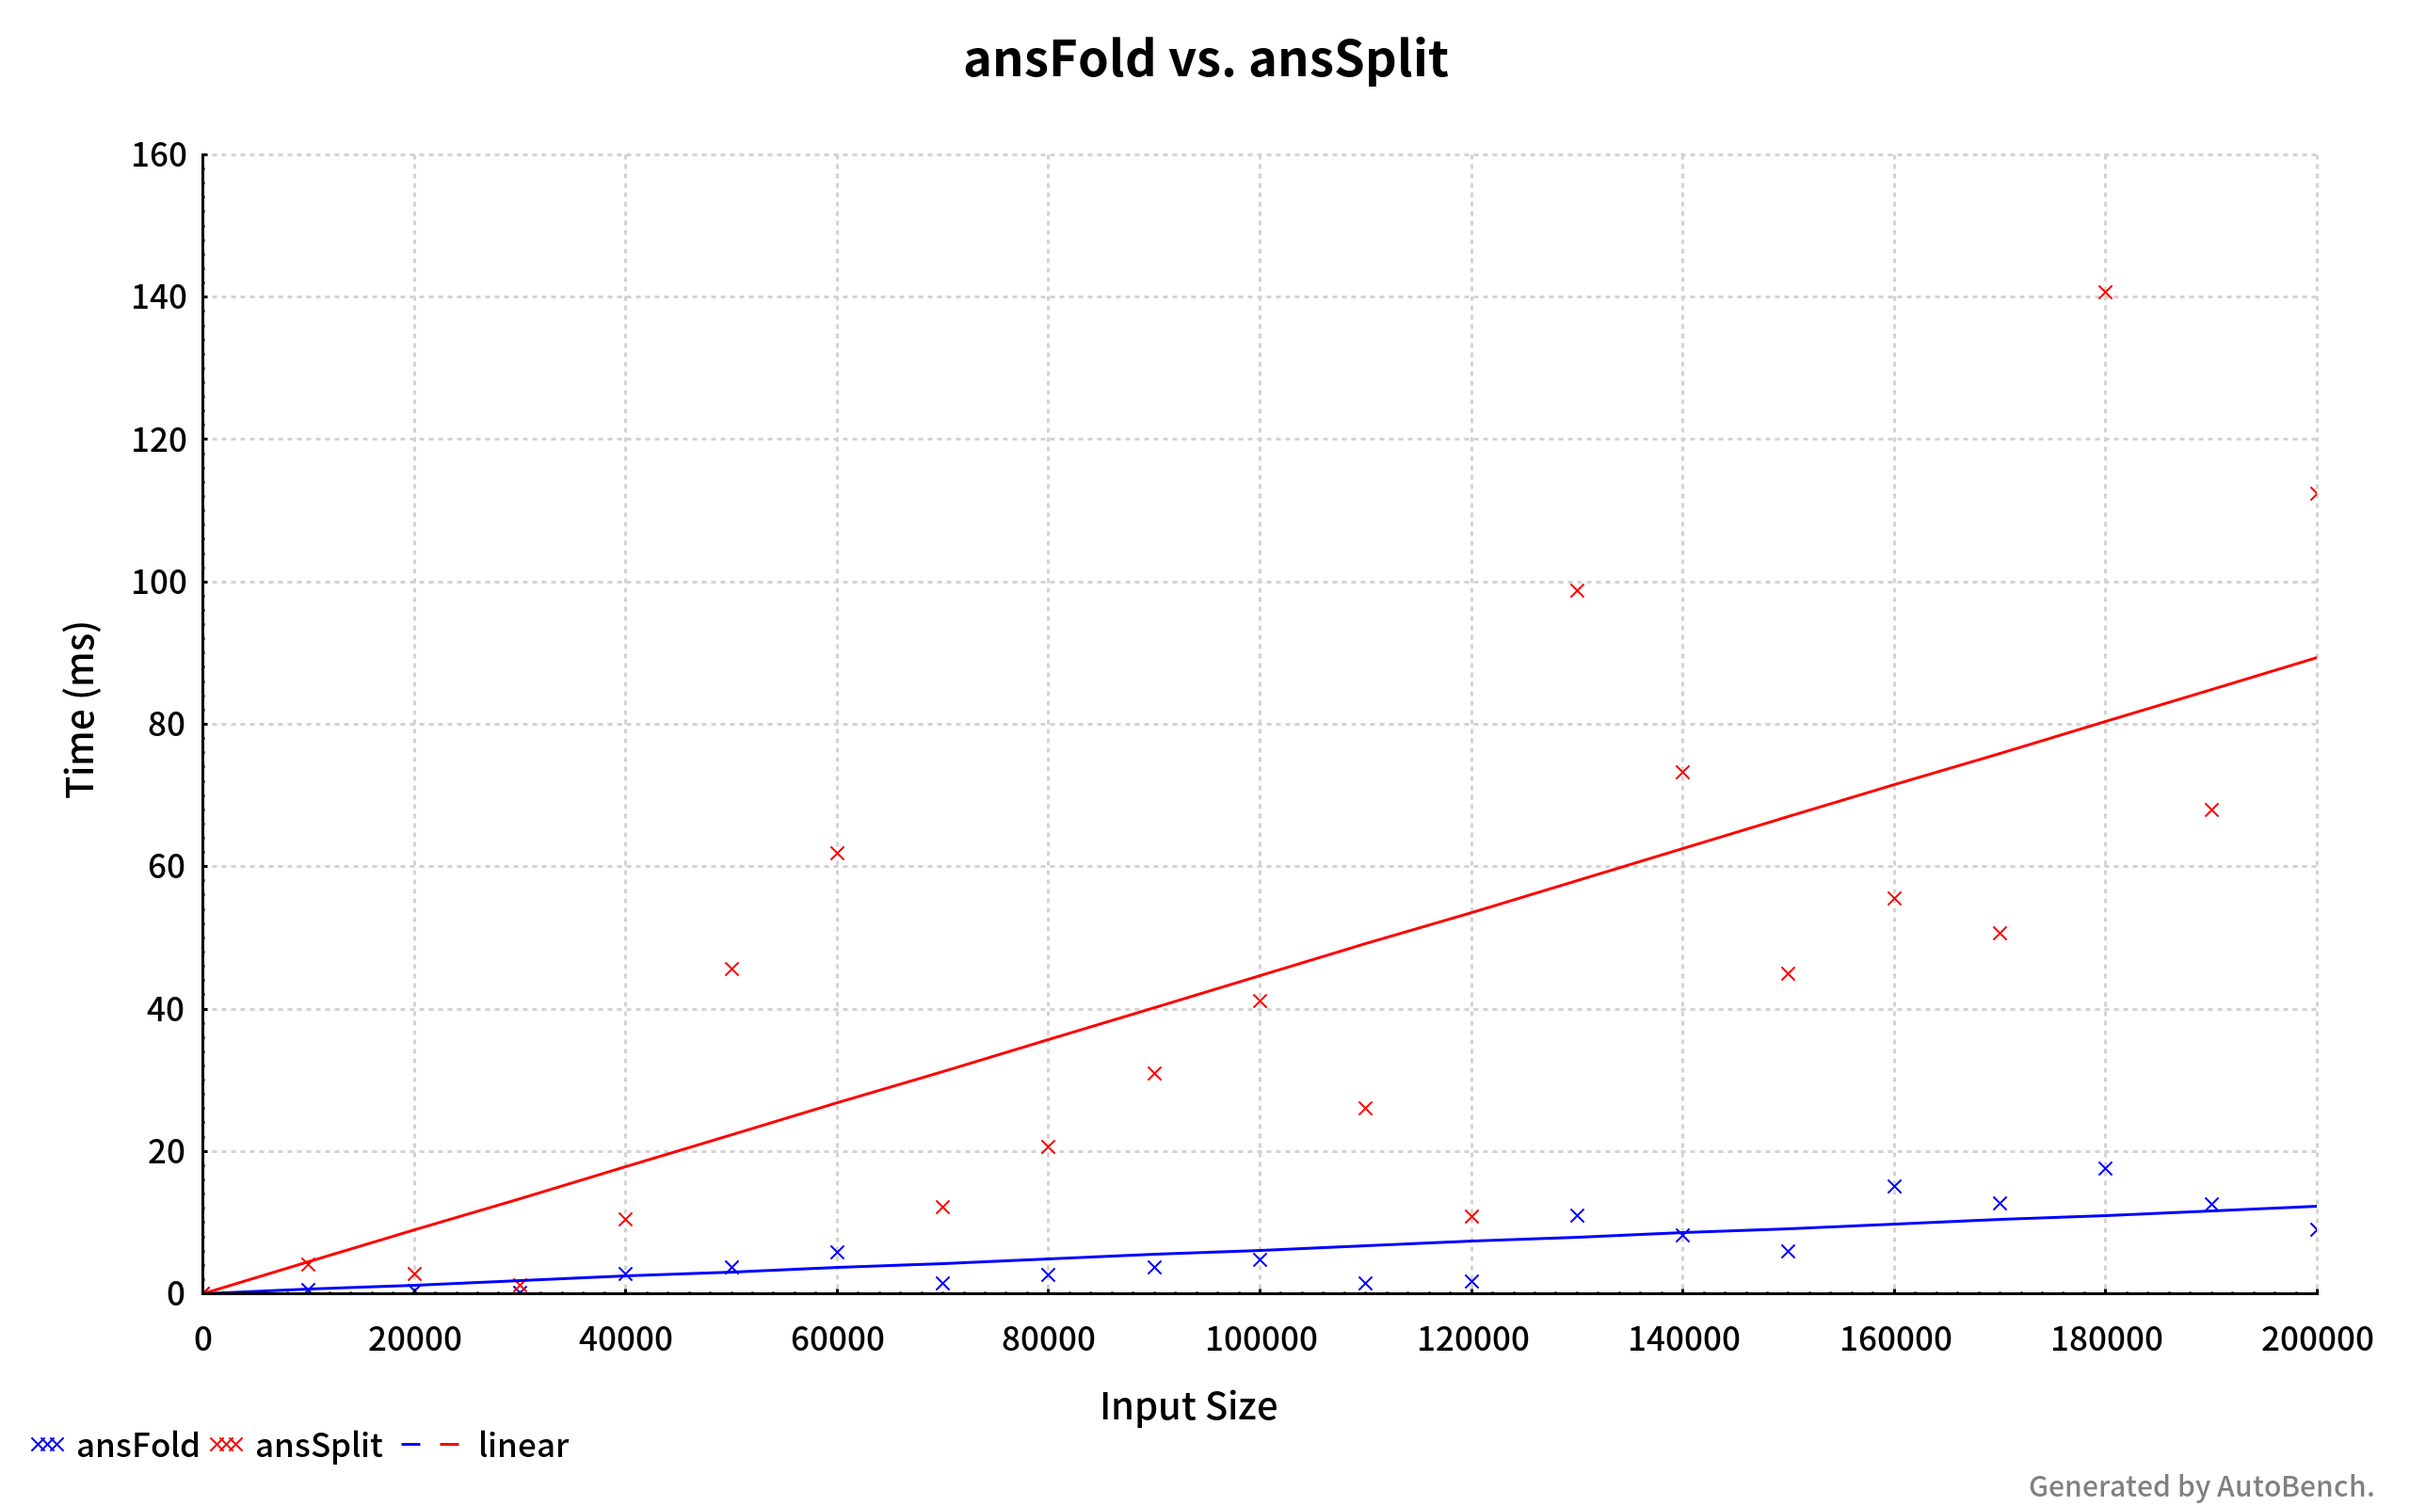
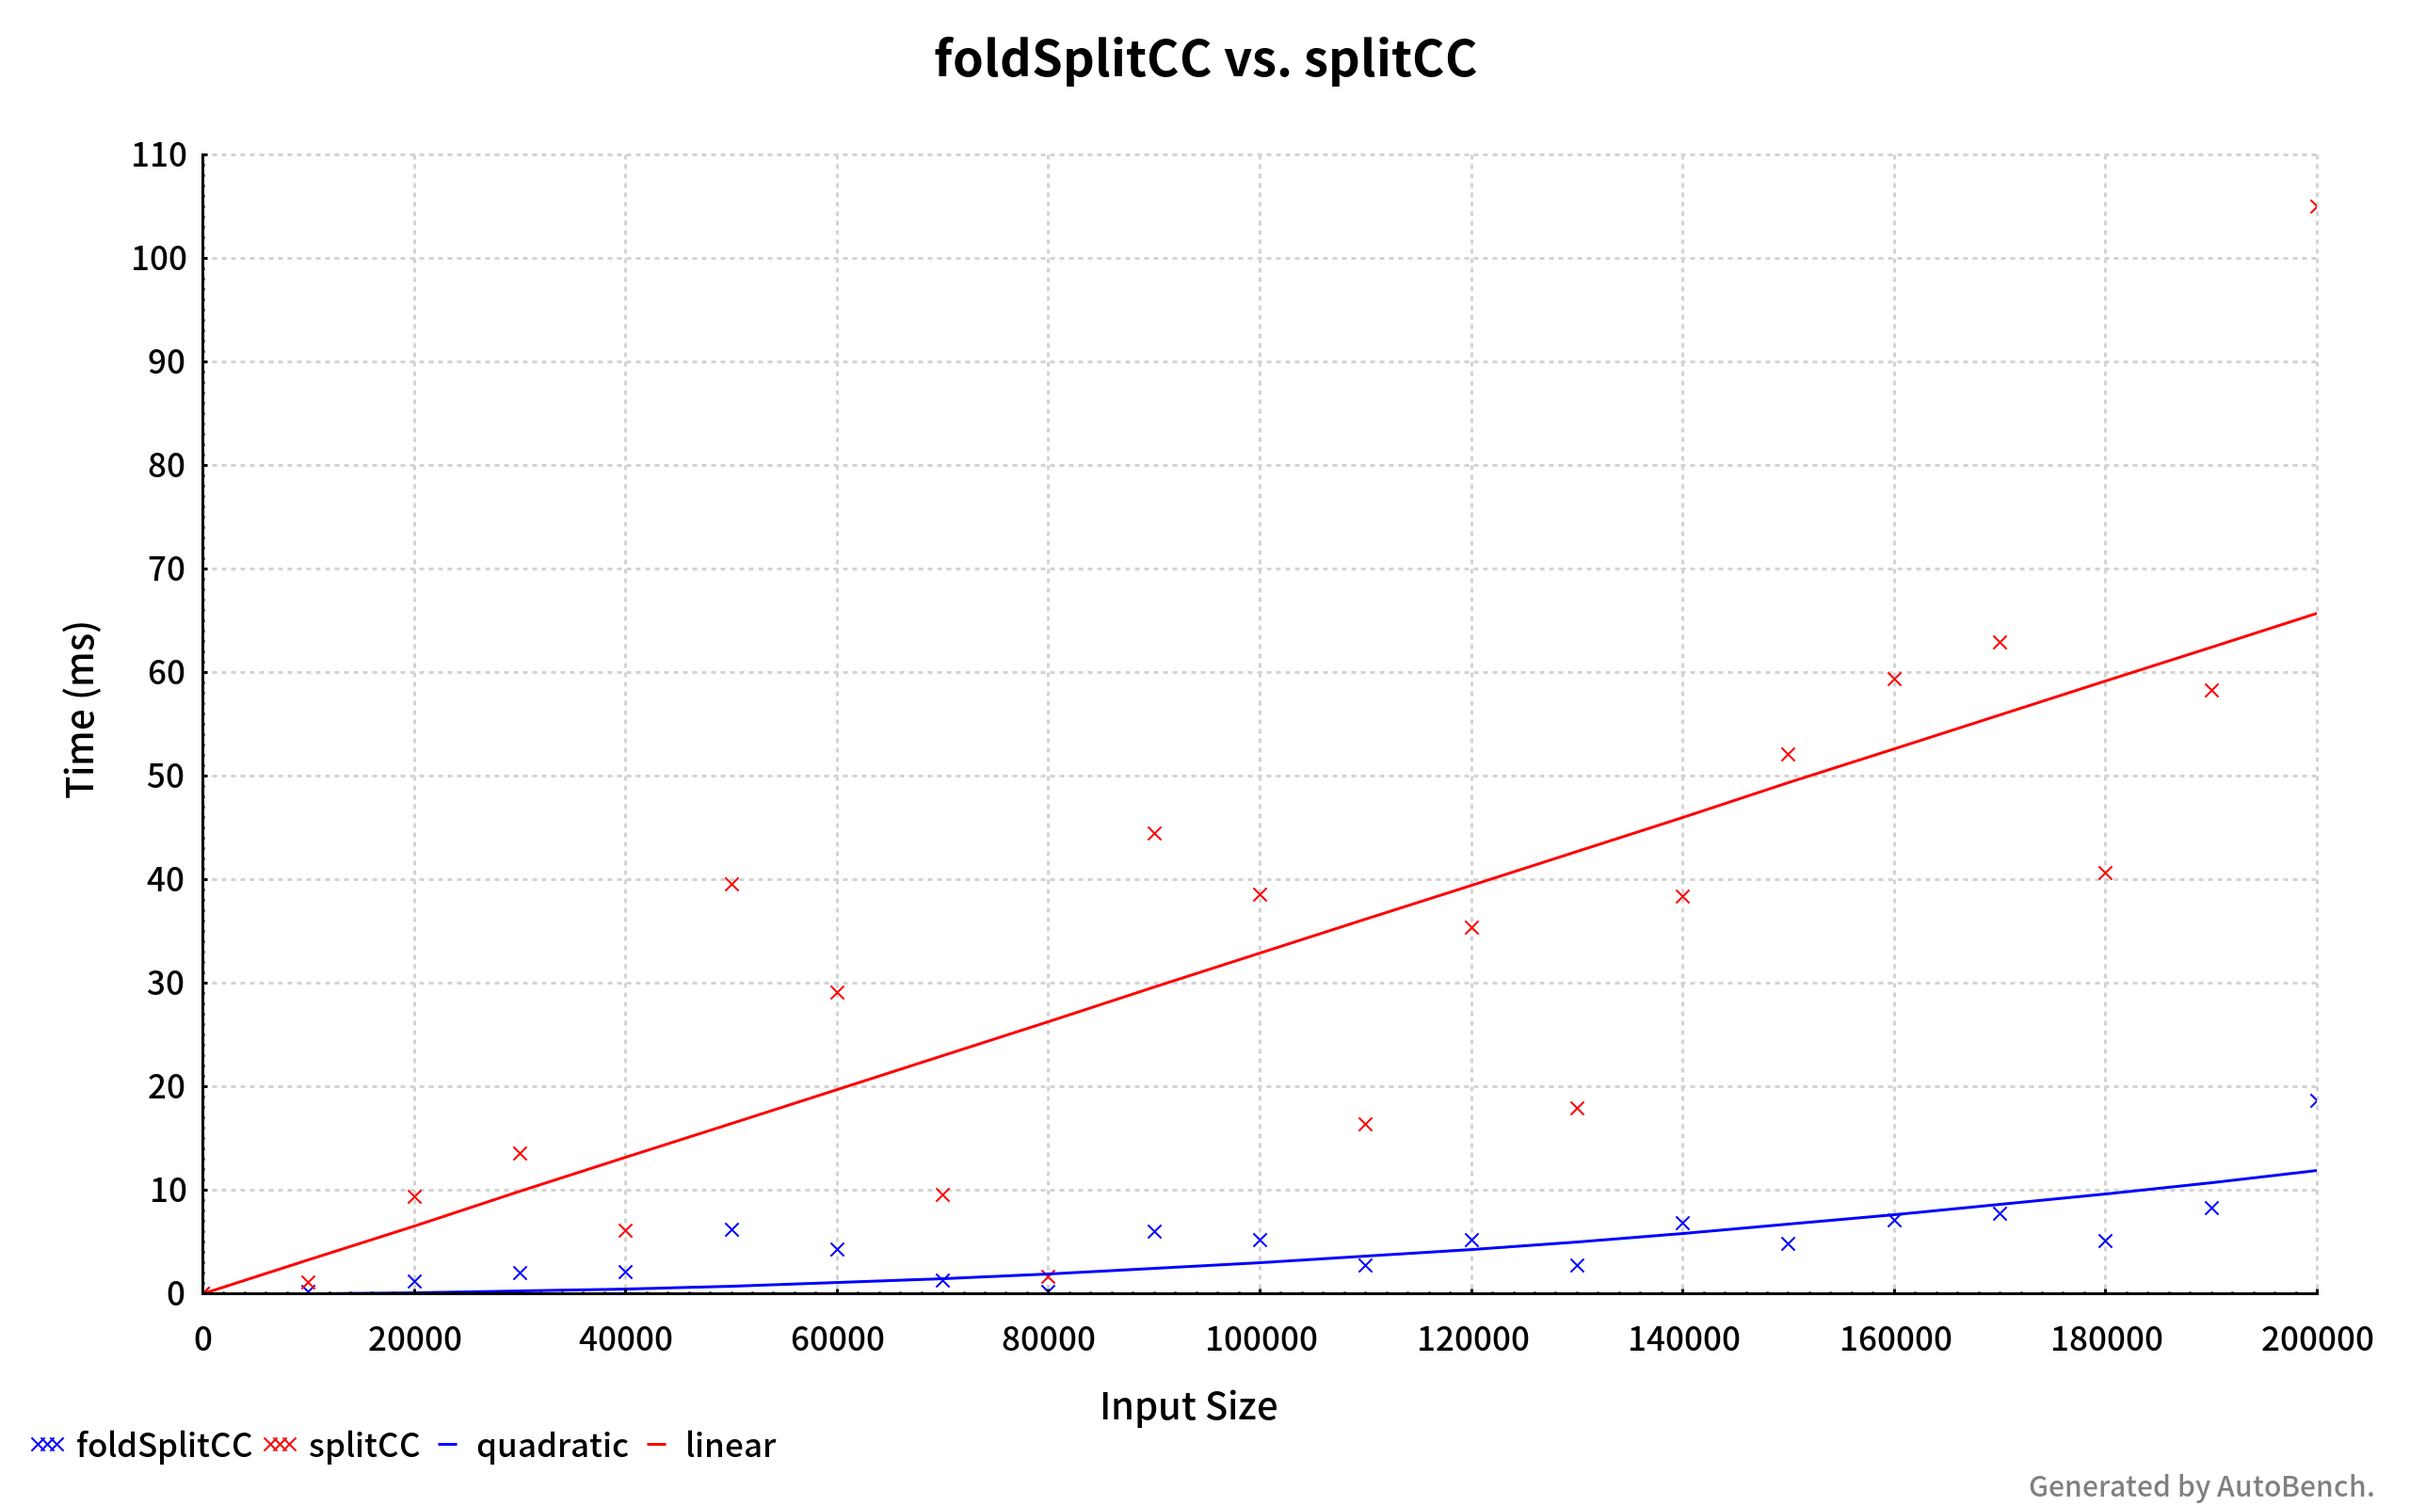
rename functions.

diff --git a/posts/2018/11-16-split-camel-case.md b/posts/2018/11-16-split-camel-case.md
@@ -19,14 +19,14 @@ Twitter で `CamelCase` の文字列を `Camel Case` にするという話を見
 ```hs
 import Data.List.Split (split, startsWithOneOf)
 
-ansSplit :: String -> String
-ansSplit = unwords . split (startsWithOneOf ['A'..'Z'])
+splitCC :: String -> String
+splitCC  = unwords . split (startsWithOneOf ['A'..'Z'])
 ```
 
 実行結果
 
 ```shell
-ghci> ansSplit "CamelCase"
+ghci> splitCC "CamelCase"
 "Camel Case"
 ```
 
@@ -41,8 +41,8 @@ ghci> ansSplit "CamelCase"
 ```hs
 import Data.Char (isUpper, isSpace)
 
-ansFold :: String -> String
-ansFold = fmt . foldr go []
+foldSplitCC :: String -> String
+foldSplitCC = fmt . foldr go []
   where
     go c acc
       | isUpper c = ' ':c:acc
@@ -56,7 +56,7 @@ ansFold = fmt . foldr go []
 実行結果
 
 ```shell
-ghci> ansFold "CamelCase"
+ghci> foldSplitCC "CamelCase"
 "Camel Case"
 ```
 
@@ -81,7 +81,7 @@ main :: IO ()
 main = quickCheck prop_split
 
 prop_split :: MyString -> Bool
-prop_split xs = ansSplit xs' == ansFold xs'
+prop_split xs = splitCC xs' == foldSplitCC xs'
   where xs' = getString xs
 ```
 
@@ -106,6 +106,8 @@ import Gauge.Main.Options
 
 import Test.QuickCheck
 
+import SplitCC
+
 main :: IO ()
 main = do
   let conf = defaultConfig { displayMode = Condensed }
@@ -115,16 +117,16 @@ main = do
   sampleData4 <- generate $ vectorOf 10000000 charGen
 
   defaultMainWith conf
-    [ bgroup "ansSplit" [ bench "10" $ whnf ansSplit sampleData1
-                        , bench "1000" $ whnf ansSplit sampleData2
-                        , bench "100000" $ whnf ansSplit sampleData3
-                        , bench "10000000" $ whnf ansSplit sampleData4
-                        ]
-    , bgroup "ansFold"  [ bench "10" $ whnf ansFold sampleData1
-                        , bench "1000" $ whnf ansFold sampleData2
-                        , bench "100000" $ whnf ansFold sampleData3
-                        , bench "10000000" $ whnf ansFold sampleData4
-                        ]
+    [ bgroup "splitCC" [ bench "10"       $ whnf splitCC sampleData1
+                       , bench "1000"     $ whnf splitCC sampleData2
+                       , bench "100000"   $ whnf splitCC sampleData3
+                       , bench "10000000" $ whnf splitCC sampleData4
+                       ]
+    , bgroup "foldSplitCC" [ bench "10"       $ whnf foldSplitCC sampleData1
+                           , bench "1000"     $ whnf foldSplitCC sampleData2
+                           , bench "100000"   $ whnf foldSplitCC sampleData3
+                           , bench "10000000" $ whnf foldSplitCC sampleData4
+                           ]
     ]
 
 charGen :: Gen Char
@@ -136,14 +138,14 @@ charGen = elements (['a'..'z']++['A'..'Z'])
 ```shell
 $ stack bench
 Benchmark splitcc: RUNNING...
-ansSplit/10                              mean 538.8 ns  ( +- 274.7 ns  )
-ansSplit/1000                            mean 423.3 ns  ( +- 65.61 ns  )
-ansSplit/100000                          mean 343.1 ns  ( +- 35.88 ns  )
-ansSplit/10000000                        mean 725.5 ns  ( +- 132.6 ns  )
-ansFold/10                               mean 26.40 ns  ( +- 8.706 ns  )
-ansFold/1000                             mean 25.17 ns  ( +- 2.550 ns  )
-ansFold/100000                           mean 21.20 ns  ( +- 2.566 ns  )
-ansFold/10000000                         mean 25.27 ns  ( +- 2.758 ns  )
+splitCC/10                              mean 538.8 ns  ( +- 274.7 ns  )
+splitCC/1000                            mean 423.3 ns  ( +- 65.61 ns  )
+splitCC/100000                          mean 343.1 ns  ( +- 35.88 ns  )
+splitCC/10000000                        mean 725.5 ns  ( +- 132.6 ns  )
+foldSplitCC/10                          mean 26.40 ns  ( +- 8.706 ns  )
+foldSplitCC/1000                        mean 25.17 ns  ( +- 2.550 ns  )
+foldSplitCC/100000                      mean 21.20 ns  ( +- 2.566 ns  )
+foldSplitCC/10000000                    mean 25.27 ns  ( +- 2.758 ns  )
 Benchmark splitcc: FINISH
 ```
 
@@ -154,24 +156,24 @@ Benchmark splitcc: FINISH
 ```hs
 {-# LANGUAGE GeneralizedNewtypeDeriving #-}
 {-# LANGUAGE DeriveGeneric #-}
-module Input (ts, ansSplit, ansFold) where
+module Input (ts, splitCC, foldSplitCC) where
 
-import           Data.Char          (isSpace, isUpper)
-import           Data.List.Split    (split, startsWithOneOf)
+import Data.Char          (isSpace, isUpper)
+import Data.List.Split    (split, startsWithOneOf)
 
-import           GHC.Generics    (Generic)
-import           Control.DeepSeq
+import GHC.Generics    (Generic)
+import Control.DeepSeq
 
-import           Data.Default         (def)
-import           AutoBench.Types      (DataOpts(..), TestSuite(..))
-import           AutoBench.QuickCheck ()
-import           Test.QuickCheck
+import Data.Default         (def)
+import AutoBench.Types      (DataOpts(..), TestSuite(..))
+import AutoBench.QuickCheck ()
+import Test.QuickCheck
 
-ansSplit :: MyString -> String
-ansSplit = unwords . split (startsWithOneOf ['A'..'Z']) . getString
+splitCC :: MyString -> String
+splitCC = unwords . split (startsWithOneOf ['A'..'Z']) . getString
 
-ansFold :: MyString -> String
-ansFold = fmt . foldr go [] . getString
+foldSplitCC :: MyString -> String
+foldSplitCC = fmt . foldr go [] . getString
   where
     go c acc
       | isUpper c = ' ':c:acc
@@ -192,18 +194,21 @@ instance Arbitrary MyString where
 ```
 
 - AutoBench を利用する際、入力の型は `NFData` 型クラスのインスタンスになっている必要があります。
-- デフォルトの設定だと実行完了までに5分程度かかります。
 
 AutoBench の結果
 
 ![AutoBench の結果](/images/2018/11-16/AutoBenched.png)
 
-一応ターミナルにもこんな感じで結果を出力してくれます。
+一応ターミナルにもこんな感じで詳細な結果も出力してくれます。
 
 ```shell
+     • Executed benchmarking file ✔
+     • Generating test report ✔
+     • Analysing performance results...
+
  ―― Test summary ――――――――――――――――――――――――――――――――――――――――――――――――――――――――――――――
 
-  Programs       ansFold, ansSplit
+  Programs       foldSplitCC, splitCC
   Data           Random, size range [0,10000..200000]
   Normalisation  nf
   QuickCheck     ✔
@@ -211,46 +216,46 @@ AutoBench の結果
 
  ―― Analysis ――――――――――――――――――――――――――――――――――――――――――――――――――――――――――――――――――
 
-  ansFold
+  foldSplitCC
     Size          0       10000   20000   30000   40000   50000   60000   70000
                   80000   90000   100000  110000  120000  130000  140000  150000
                   160000  170000  180000  190000  200000
-    Time    (ms)  0.000   0.581   0.376   0.115   2.795   3.645   5.881   1.399
-                  2.619   3.767   4.792   1.419   1.709   11.00   8.169   5.921
-                  15.06   12.73   17.61   12.57   9.051
-    Std dev (ms)  2.218
-    Average variance introduced by outliers: 91% (severely inflated)
+    Time    (ms)  0.000   0.179   1.225   1.978   2.112   6.172   4.232   1.248
+                  0.217   5.961   5.184   2.715   5.186   2.690   6.810   4.810
+                  7.073   7.760   5.122   8.280   18.66
+    Std dev (ms)  1.742
+    Average variance introduced by outliers: 83% (severely inflated)
 
-    Fits          y = 4.48e-13 + 6.12e-8x
-                  y = 1.54e-23 + 8.69e-17x + 3.87e-13x²
-                  y = 1.50e-15 + 3.57e-9xlog₂(x)
+    Fits          y = 1.18e-23 + 8.49e-17x + 2.98e-13x²
+                  y = 3.45e-13 + 4.71e-8x
+                  y = 3.47e-34 + 5.68e-29x + 9.70e-24x² + 1.70e-18x³
 
-  ansSplit
+  splitCC
     Size          0       10000   20000   30000   40000   50000   60000   70000
                   80000   90000   100000  110000  120000  130000  140000  150000
                   160000  170000  180000  190000  200000
-    Time    (ms)  0.000   4.140   2.812   1.240   10.43   45.66   61.93   12.14
-                  20.63   31.00   41.17   26.11   10.80   98.83   73.31   44.92
-                  55.60   50.67   140.7   68.02   112.4
-    Std dev (ms)  27.40
-    Average variance introduced by outliers: 74% (severely inflated)
+    Time    (ms)  0.000   1.080   9.397   13.53   6.133   39.55   29.14   9.504
+                  1.596   44.46   38.58   16.35   35.41   17.94   38.40   52.06
+                  59.35   62.88   40.68   58.27   105.0
+    Std dev (ms)  10.54
+    Average variance introduced by outliers: 62% (severely inflated)
 
-    Fits          y = 3.27e-12 + 4.47e-7x
-                  y = 1.09e-14 + 2.61e-8xlog₂(x)
-                  y = 1.11e-22 + 1.38e-16x + 2.79e-12x²
+    Fits          y = 2.41e-12 + 3.29e-7x
+                  y = 8.06e-15 + 1.92e-8xlog₂(x)
+                  y = 8.20e-23 + 1.21e-16x + 2.07e-12x²
 
   Optimisation:
 
-    ansSplit ≥ ansFold (1.00)
+    splitCC ≥ foldSplitCC (1.00)
 
  ――――――――――――――――――――――――――――――――――――――――――――――――――――――――――――――――――――――――――――――
 ```
 
-`ansSplit ≥ ansFold (1.00)` ということなので `ansFold` の方が良い結果となりました。
+`splitCC ≥ foldSplitCC (1.00)` ということなので `splitFoldCC` の方が良い結果となりました。
 
 ## まとめ
 
 - リストを何度も走査すると遅くなるので、fold で書くと良いよ！
-- 関数の振る舞いが変化していないか確認するために QuickCheck を使おう
+- 関数の振る舞いが変化していないか確認するために QuickCheck を使おう！
 - ベンチマークの実行はとても簡単なので積極的にやってみよう！
-- AutoBench を使って可視化しよう！
+- AutoBench を使って可視化すると楽しいよ！
